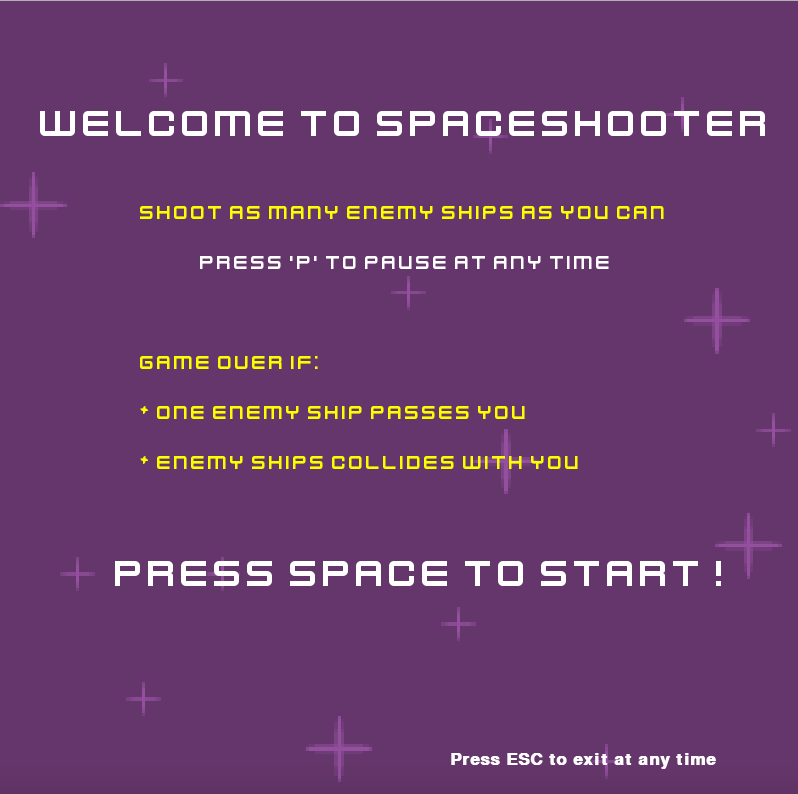
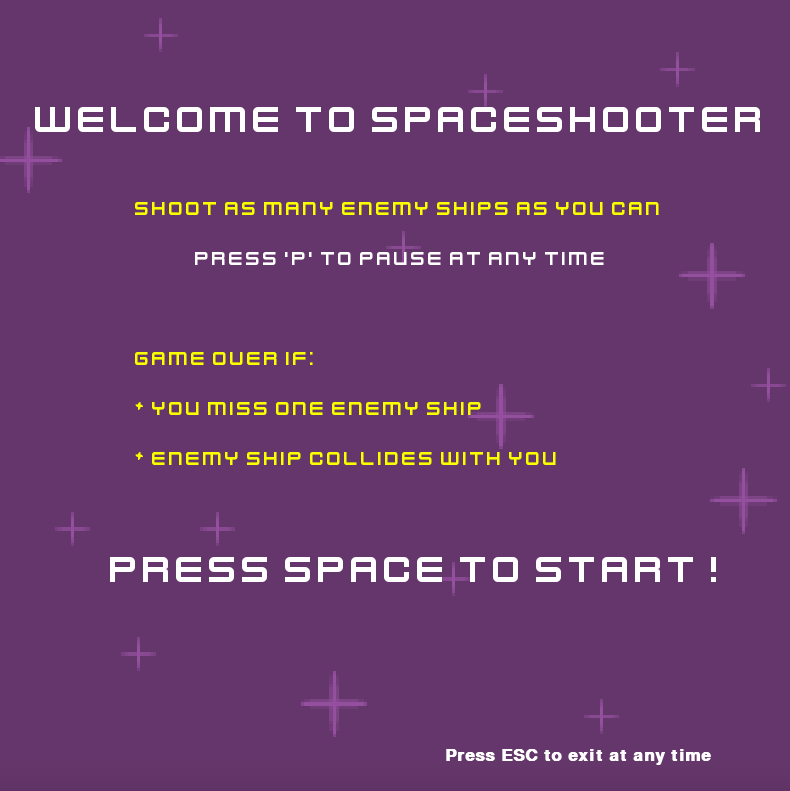
screensho1

diff --git a/spaceshooter.py b/spaceshooter.py
@@ -111,8 +111,8 @@ def showIntro():
 	print_text("Shoot as many enemy ships as you can", (140, 200), font2, YELLOW)
 	print_text("Press 'P' to pause at any time", (200, 250), font2, text_color)
 	print_text("Game Over if:", (140, 350), font2, YELLOW)
-	print_text("* One enemy ship passes you", (140, 400), font2, YELLOW)
-	print_text("* Enemy ships collides with you", (140, 450), font2, YELLOW)
+	print_text("* You miss one enemy ship", (140, 400), font2, YELLOW)
+	print_text("* Enemy ship collides with you", (140, 450), font2, YELLOW)
 	print_text("Press ESC to exit at any time", (450, 750), font, text_color)
 
 def music_effect(effect):  #function to pull up sound effects
